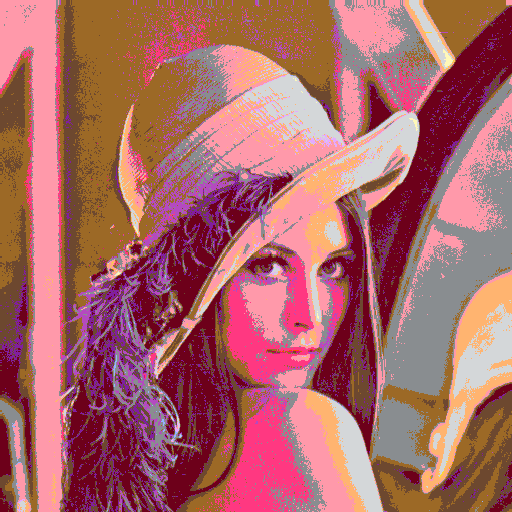
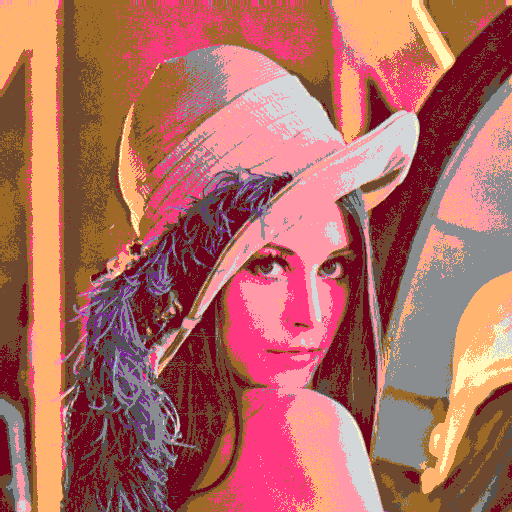
Implement Redmean color distance.

diff --git a/src/dither.rs b/src/dither.rs
@@ -199,6 +199,7 @@ pub enum DistanceMode {
     KMeans,
     RGB,
     LWRGB,
+    Redmean,
     CIE76,
     CIE94,
     CIEDE2000,
@@ -222,7 +223,9 @@ pub fn dither_image(
     }
 
     let palette_components: Vec<Components> = match state.pixel_distance_mode {
-        DistanceMode::RGB | DistanceMode::LWRGB => state.palette.iter().map(color_to_rgb).collect(),
+        DistanceMode::RGB | DistanceMode::LWRGB | DistanceMode::Redmean => {
+            state.palette.iter().map(color_to_rgb).collect()
+        }
         DistanceMode::CIE76 | DistanceMode::CIE94 | DistanceMode::CIEDE2000 | DistanceMode::CMC => {
             state.palette.iter().map(color_to_lab).collect()
         }
@@ -236,6 +239,7 @@ pub fn dither_image(
     let find_closest = match state.pixel_distance_mode {
         DistanceMode::RGB => palette_find_closest(color_to_rgb, color_dist2),
         DistanceMode::LWRGB => palette_find_closest(color_to_rgb, lwrgb_color_dist2),
+        DistanceMode::Redmean => palette_find_closest(color_to_rgb, redmean_color_dist2),
         DistanceMode::CIE76 => palette_find_closest(color_to_lab, color_dist2),
         DistanceMode::CIE94 => palette_find_closest(color_to_lab, cie94_color_dist2),
         DistanceMode::CIEDE2000 => palette_find_closest(color_to_lab, ciede2000_color_dist2),
@@ -290,6 +294,15 @@ fn lwrgb_color_dist2(a: &Components, b: &Components) -> f64 {
     let dl = l1 - l2;
     
     (dr * dr * 0.299 + dg * dg * 0.587 + db * db * 0.114) * 0.75 + dl * dl
+}
+
+fn redmean_color_dist2(a: &Components, b: &Components) -> f64 {
+    let rmean = (a.0 + b.0) / 2.0;
+    let r = a.0 - b.0;
+    let g = a.1 - b.1;
+    let b = a.2 - b.2;
+
+    (((512.0 + rmean) * r * r) / 256.0) + 4.0 * g * g + (((767.0 - rmean) * b * b) / 256.0)
 }
 
 fn cie94_color_dist2(col0: &Components, col1: &Components) -> f64

diff --git a/src/main.rs b/src/main.rs
@@ -38,7 +38,7 @@ fn main() {
         "#FFFFFFFF",
     ];
     let mut state = I2PState {
-        pixel_distance_mode: charity_pixelization::DistanceMode::LWRGB,
+        pixel_distance_mode: charity_pixelization::DistanceMode::Redmean,
         palette: palette.iter().map(|c| c.parse().unwrap()).collect(),
         ..Default::default()
     };
